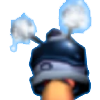
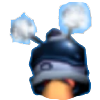
Weapon selection feedback

diff --git a/src/WeaponsHUD.h b/src/WeaponsHUD.h
@@ -18,20 +18,10 @@ private:
 
 	int SpriteY = -RectSizeY;
 
-public:
-	int CheckBox() {
-		if (GetMousePosition().x > middleOfScreen && GetMousePosition().x < middleOfScreen + RectSizeX * 1 && GetMousePosition().y > -middleOfScreen && GetMousePosition().y > -middleOfScreen + RectSizeY) {
-			return 1;
-		}
-		if (GetMousePosition().x > middleOfScreen && GetMousePosition().x < middleOfScreen + RectSizeX * 2 && GetMousePosition().y > -middleOfScreen && GetMousePosition().y > -middleOfScreen + RectSizeY) {
-			return 2;
-		}
-		if (GetMousePosition().x > middleOfScreen && GetMousePosition().x < middleOfScreen+RectSizeX * 3 && GetMousePosition().y > -middleOfScreen && GetMousePosition().y > -middleOfScreen + RectSizeY) {
-			return 3;
-		}
-	}
 
-	WeaponsHUD() {
+public:
+
+	void ReloadImgs() {
 		Image GranadeImg = LoadImage("Granade_Icon.png");
 		Image ShotgunImg = LoadImage("Shotgun_Icon.png");
 		Image TeleporterImg = LoadImage("Teleporter_Icon.png");
@@ -41,7 +31,10 @@ public:
 		UnloadImage(GranadeImg);
 		UnloadImage(ShotgunImg);
 		UnloadImage(TeleporterImg);
+	}
 
+	WeaponsHUD() {
+		ReloadImgs();
 	}
 
 	void DrawSprite() {
@@ -72,6 +65,27 @@ public:
 		}
 	}
 
+	int CheckBox() {
+		ReloadImgs();
+		if (GetMousePosition().x > middleOfScreen && GetMousePosition().x < middleOfScreen + RectSizeX * 1 && GetMousePosition().y > -middleOfScreen && GetMousePosition().y > -middleOfScreen + RectSizeY) {
+			Image GranadeImg = LoadImage("Granade_Icon_SELSECTED.png");
+			Granade = LoadTextureFromImage(GranadeImg);
+			UnloadImage(GranadeImg);
+			return 1;
+		}
+		if (GetMousePosition().x > middleOfScreen && GetMousePosition().x < middleOfScreen + RectSizeX * 2 && GetMousePosition().y > -middleOfScreen && GetMousePosition().y > -middleOfScreen + RectSizeY) {
+			Image ShotgunImg = LoadImage("Shotgun_Icon_SELECTED.png");
+			Shotgun = LoadTextureFromImage(ShotgunImg);
+			UnloadImage(ShotgunImg);
+			return 2;
+		}
+		if (GetMousePosition().x > middleOfScreen && GetMousePosition().x < middleOfScreen + RectSizeX * 3 && GetMousePosition().y > -middleOfScreen && GetMousePosition().y > -middleOfScreen + RectSizeY) {
+			Image TeleporterImg = LoadImage("Teleporter_Icon_SELECTED.png");
+			Teleporter = LoadTextureFromImage(TeleporterImg);
+			UnloadImage(TeleporterImg);
+			return 3;
+		}
+	}
 };
 
 #endif

diff --git a/src/Player.cpp b/src/Player.cpp
@@ -52,9 +52,14 @@ void Player::Update() {
                     charging = false;
                     playerAim.isTurn = false;
                 }
+                HUDactive = false;
             }
         }
 
+    }
+
+    if (!isTurn) {
+        HUDactive = false;
     }
 
     if (currentWeapon == "bullet") BulletEquipped();
@@ -77,7 +82,6 @@ void Player::Update() {
     //if (!aiming) playerLauncher.Update();
 
     //std::cout << playerLauncher.isProjectileOnAir;;
-
 }
 
 
